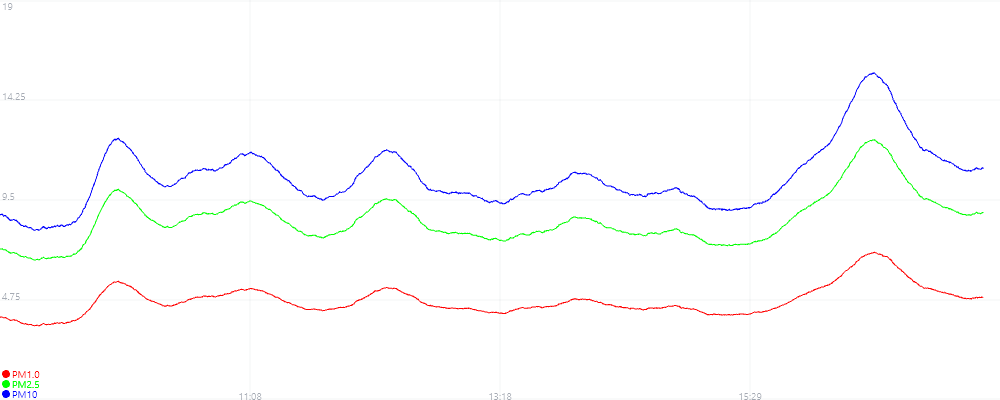
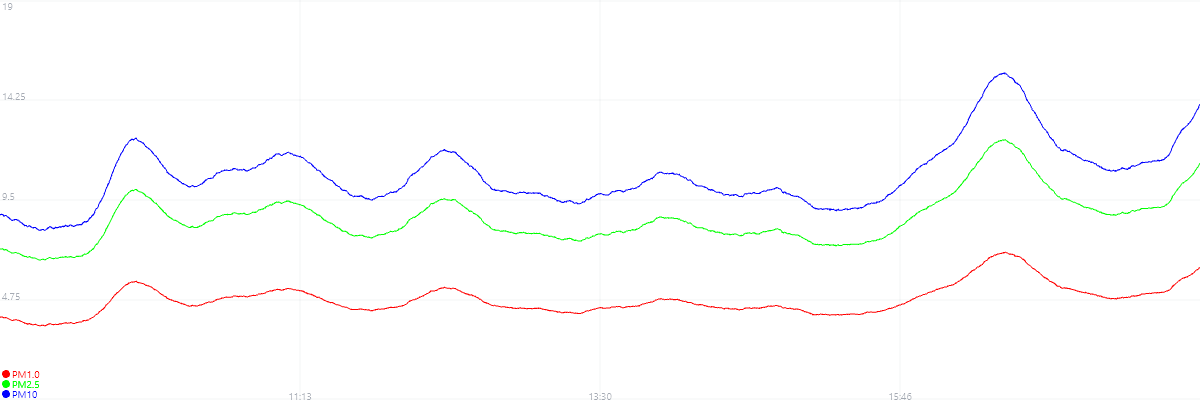
update

diff --git a/scripts/preview.js b/scripts/preview.js
@@ -5,8 +5,8 @@ if (args['name'])
 {
     let str = fs.readFileSync(args['name'], { encoding: "ascii" });   
     let list = str.split("\n").slice(1);
-    let w = 1000, h = 400;
-    const WINDOW_SIZE = 100;
+    let w = 1200, h = 400;
+    const WINDOW_SIZE = args['window'] || 100;
     let canvas = new Canvas(w, h);
     let ctx = canvas.getContext("2d");
     ctx.fillStyle = "#FFFFFF";
@@ -20,6 +20,7 @@ if (args['name'])
     {
         let line = list[i];
         let split = line.split("|");
+        if (split.length < 3) continue;
         time_list.push(new Date(parseInt(split[0])));
         pm1_list.push(parseInt(split[1]));
         pm2_list.push(parseInt(split[2]));
@@ -122,7 +123,7 @@ function smooth (list, index, window_size)
     let sum = 0, count = 0;
     for (let i = index - window_size; i <= index + window_size; i++)
     {
-        if (i < 0 || i >= list.length)
+        if (i < 0 || (i > list.length-1))
         {
             continue;
         }
